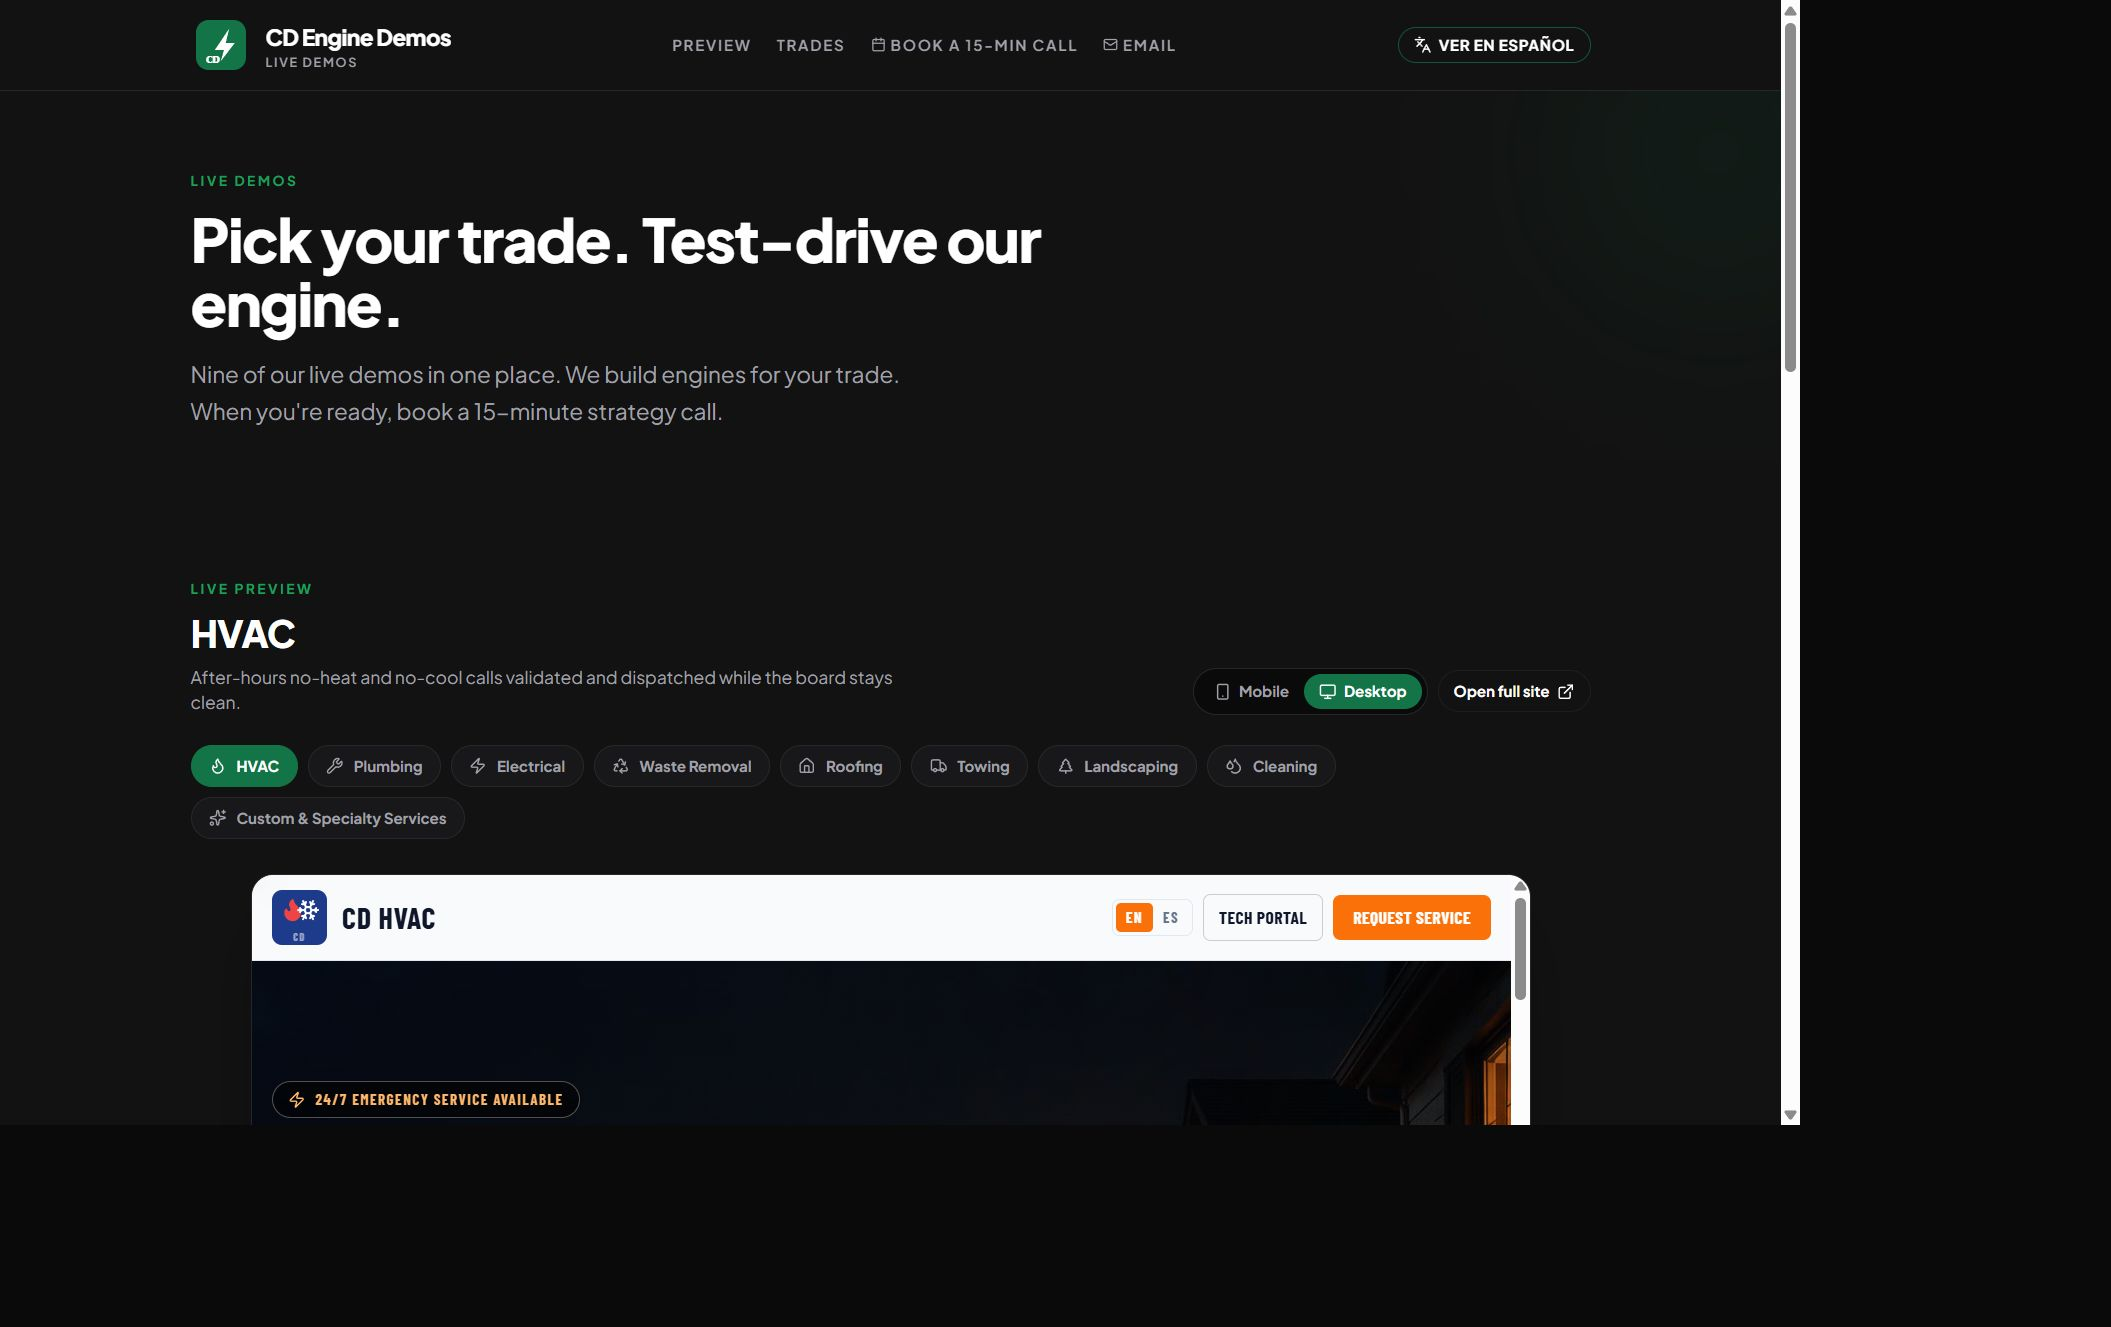
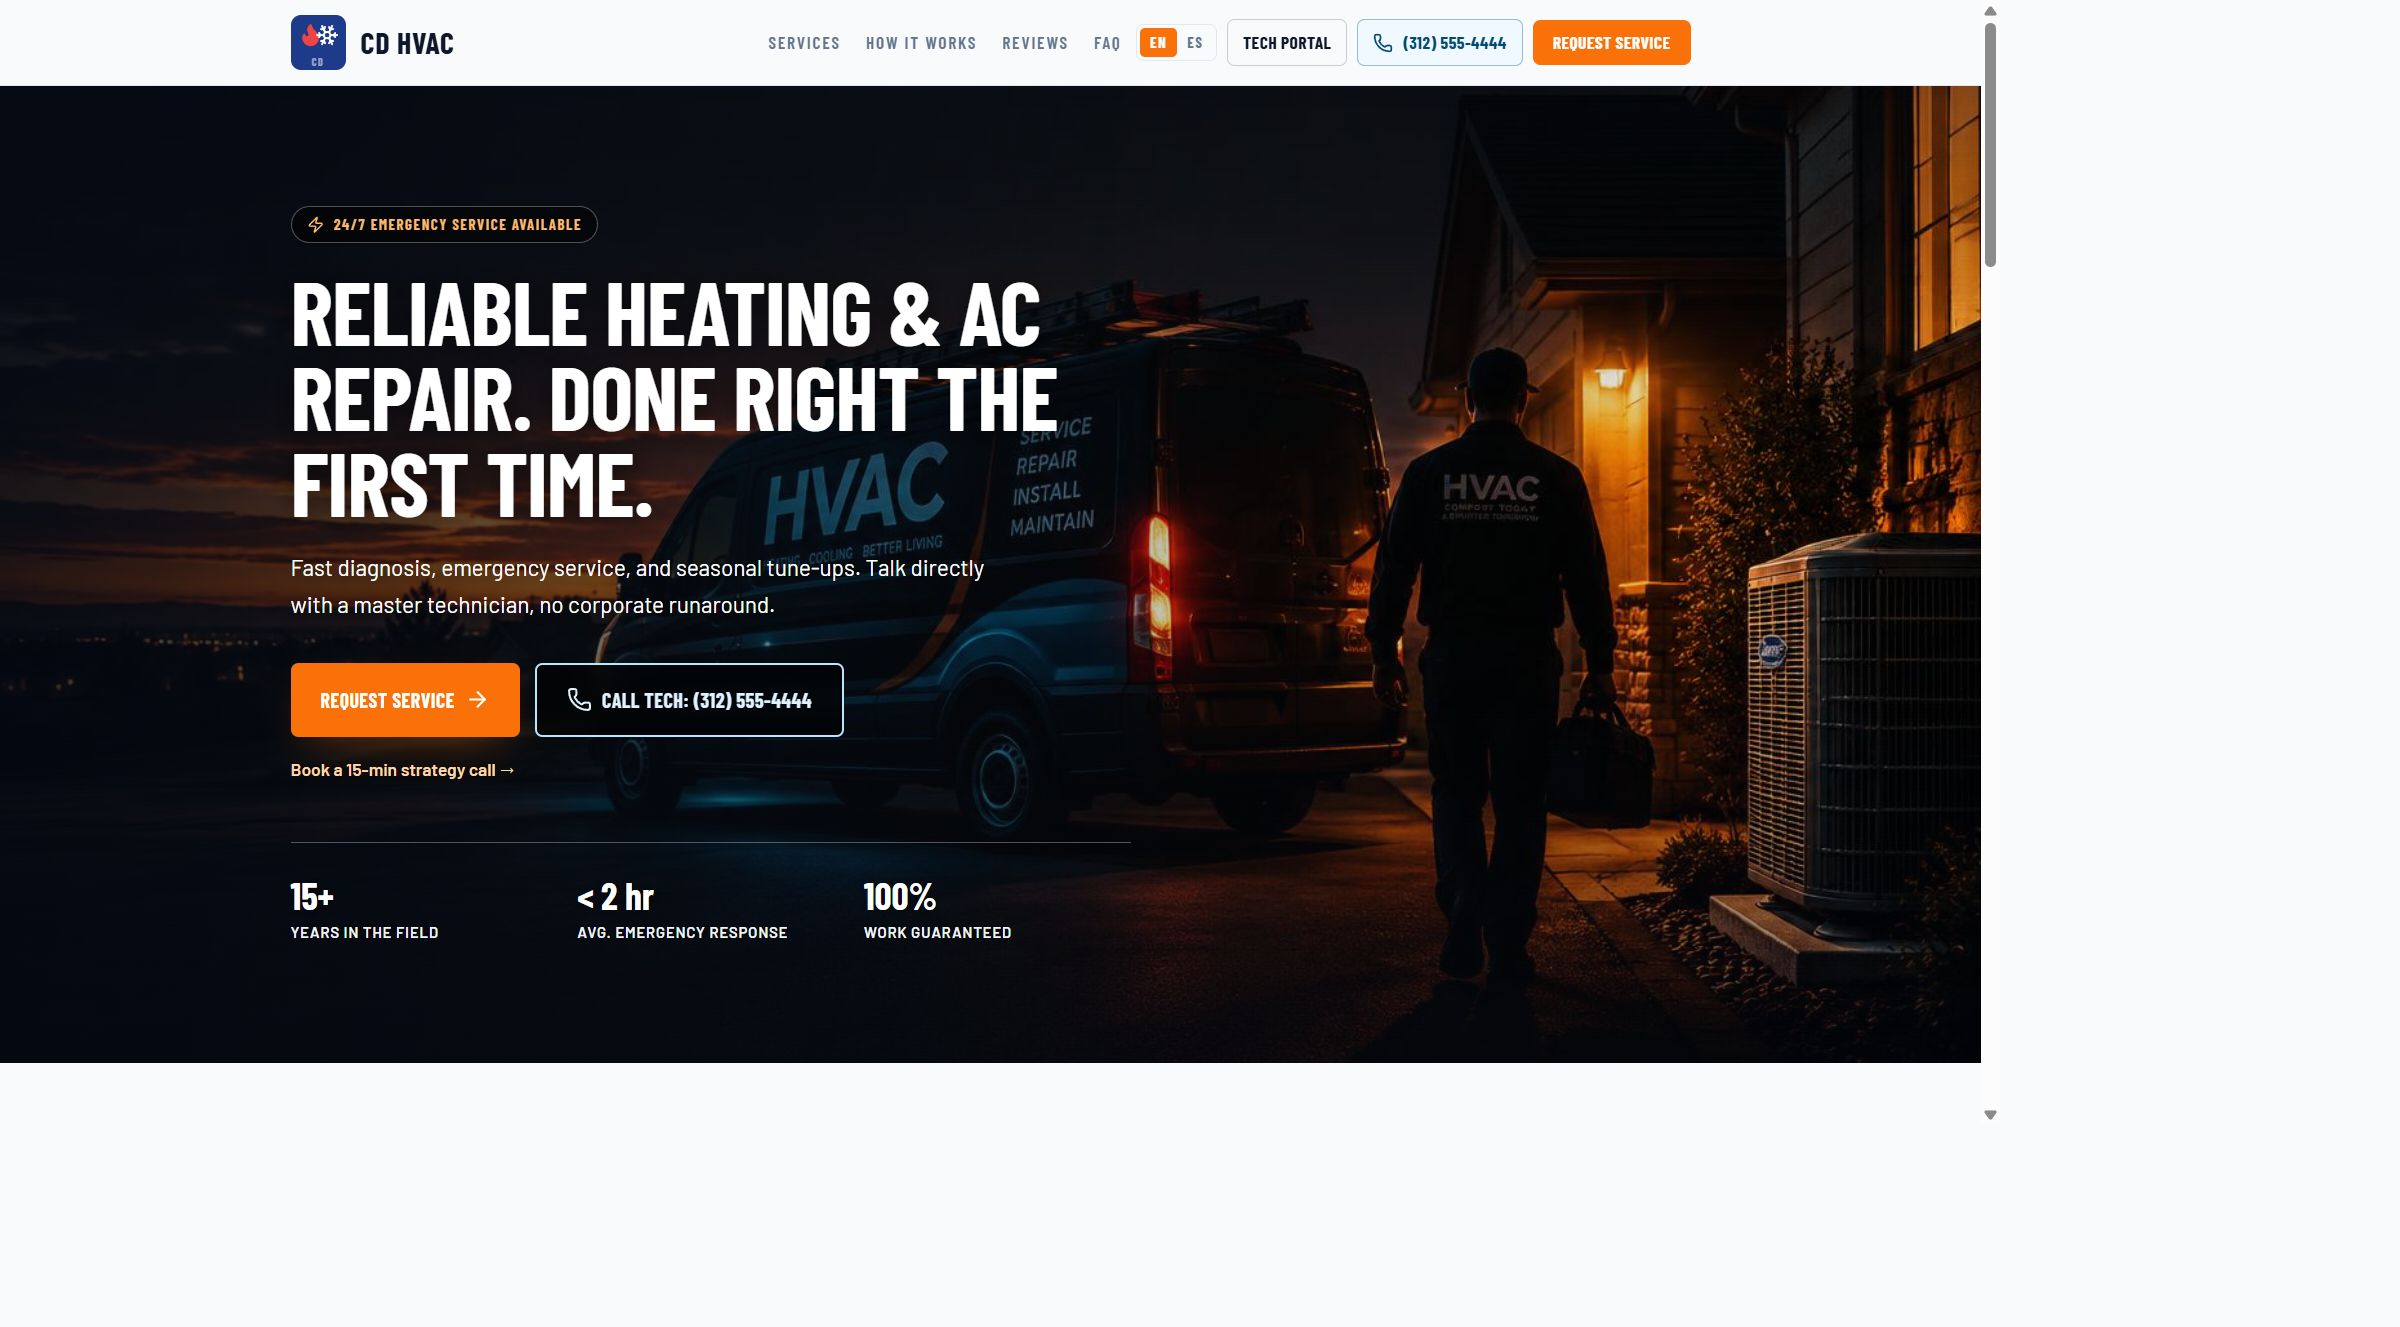
Swap the homepage demo tile for a cinematic HVAC product shot.

diff --git a/src/components/sections/VideoGate.tsx b/src/components/sections/VideoGate.tsx
@@ -68,7 +68,7 @@ const VideoGate = () => {
           <img
             src="/images/demo-preview.jpg"
             alt={copy.previewAlt}
-            className="block aspect-video w-full object-cover object-top transition-transform duration-500 group-hover:scale-[1.02]"
+            className="block aspect-video w-full object-cover object-center transition-transform duration-500 group-hover:scale-[1.02]"
           />
           <div className="pointer-events-none absolute inset-0 bg-[#10b981]/0 transition-colors duration-300 group-hover:bg-[#10b981]/5" />
           <div className="absolute bottom-4 left-4 right-4 flex flex-col gap-3 sm:flex-row sm:items-center sm:justify-between">
